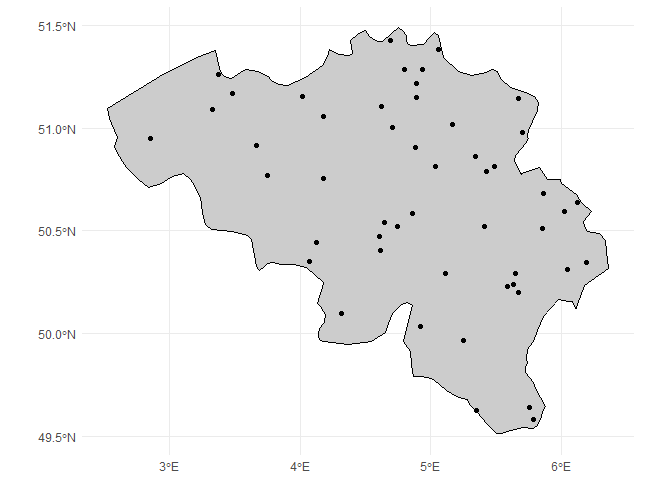
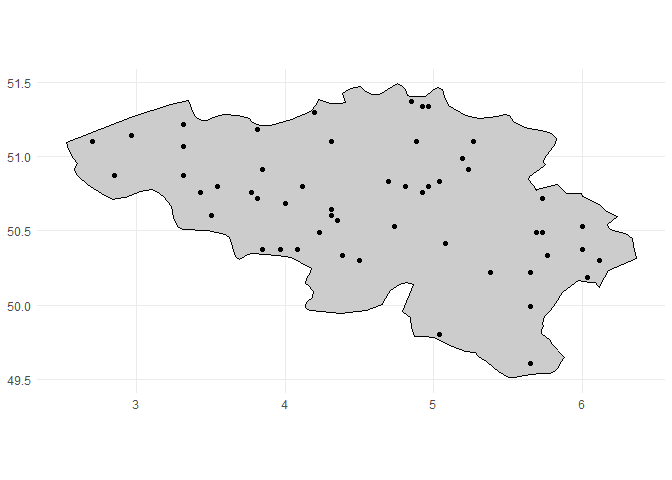
final fix

diff --git a/README.md b/README.md
@@ -67,7 +67,7 @@ library(rnaturalearth)
 #> 
 #>     countries110
 library(terra)
-#> terra 1.7.29
+#> terra 1.7.71
 #> 
 #> Attaching package: 'terra'
 #> 
@@ -76,14 +76,6 @@ library(terra)
 #>     extract
 library(sf)
 #> Linking to GEOS 3.11.2, GDAL 3.8.2, PROJ 9.3.1; sf_use_s2() is TRUE
-library(patchwork)
-#> 
-#> Attaching package: 'patchwork'
-#> 
-#> The following object is masked from 'package:terra':
-#> 
-#>     area
-
 
 # Get a polygon to add points to
 belgium <- ne_countries(scale = "medium", country = "Belgium",
@@ -102,13 +94,18 @@ ggplot() +
 ## Occurrence process
 
 We generate occurrence points within the polygon of interest, these are
-the “real” occurrences of the species, whether we observed them or not.
-In the function the user can specify different levels of spatial
-clustering, and can define the trend change of the species over time.
+the “real” occurrences of the species, whether we have observed them or
+not. In the simulate_occurrences() function the user can specify
+different levels of spatial clustering, and can define the trend change
+of the species over time.
 
 ``` r
-# occ <- simulate_occurrences(polygon_sf)
-occ <- st_sample(belgium, 50) %>% st_as_sf()
+belgium <- belgium %>% st_set_crs(value = NA)
+occ <- simulate_occurrences(belgium,
+                            initial_average_abundance = 50,
+                            n_time_points = 1) %>% 
+  rename(time_point  = time)
+#> [using unconditional Gaussian simulation]
 
 ggplot() + 
   geom_sf(data = belgium, 
@@ -126,36 +123,65 @@ In this step we define the sampling process, based on the detection
 probability of the species and the sampling effort.
 
 ``` r
-# sampled_occ <- sample_observations(
-#   occ,
-#   detection_probability = 0.5,
-#   sampling_bias = "no bias"
-# )
-sampled_occ <- sample_n(occ, 25)
+obs <- sample_observations(
+  occ,
+  detection_probability = 0.5,
+  sampling_bias = "no_bias"
+)
+# sampled_occ <- sample_n(occ, 25)
 
 ggplot() + 
   geom_sf(data = belgium, 
           fill = "grey80",
           col = "black") +
   geom_sf(data = occ) +
-  geom_sf(data = sampled_occ, col = "darkorange") +
-  ggtitle("One form of detection") +
+  geom_sf(data = obs, col = "darkorange") +
+  ggtitle("Detected occurrences in orange") +
   theme_minimal()
 ```
 
 <img src="man/figures/README-unnamed-chunk-2-1.png" width="100%" />
 
+## Grid designation process
+
+Finally, occurrences are designated to a grid to create a occurrence
+cube.
+
 ``` r
+sf_use_s2(FALSE)
+#> Spherical geometry (s2) switched off
+# Add buffer uncertainty in meters around points, randomly sampled from gamma distribution
+buffered_obs <- add_coordinate_uncertainty(
+  obs,
+  coords_uncertainty_meters = 10)
+
+# Define your grid
+grid_df <- st_make_grid(
+  belgium, # grid as the extent of polygon
+  n = c(10,10)) %>% 
+  st_intersection(belgium) %>% 
+  st_as_sf() %>% 
+  rename(geometry = x)
+plot(grid_df)  
+```
+
+<img src="man/figures/README-grid designation-1.png" width="100%" />
+
+``` r
+
+gridded_obs <- grid_designation(
+  observations = obs,
+  grid = grid_df)
+#> Warning: No column `coordinateUncertaintyInMeters` present! Assuming no uncertainty
+#> around observations.
+
 ggplot() + 
-  geom_sf(data = belgium, 
+  geom_sf(data = belgium,
           fill = "grey80",
           col = "black") +
-  geom_sf(data = occ) +
-  geom_sf(data = sampled_occ[1:10,], col = "darkorange") +
-  ggtitle("Another form of detection") +
+  geom_sf(data = gridded_obs, aes(fill = n)) +
+  scale_fill_continuous("Number of\nobservations", type = "viridis") +
   theme_minimal()
 ```
 
-<img src="man/figures/README-unnamed-chunk-2-2.png" width="100%" />
-
-## Grid designation process
+<img src="man/figures/README-grid designation-2.png" width="100%" />
